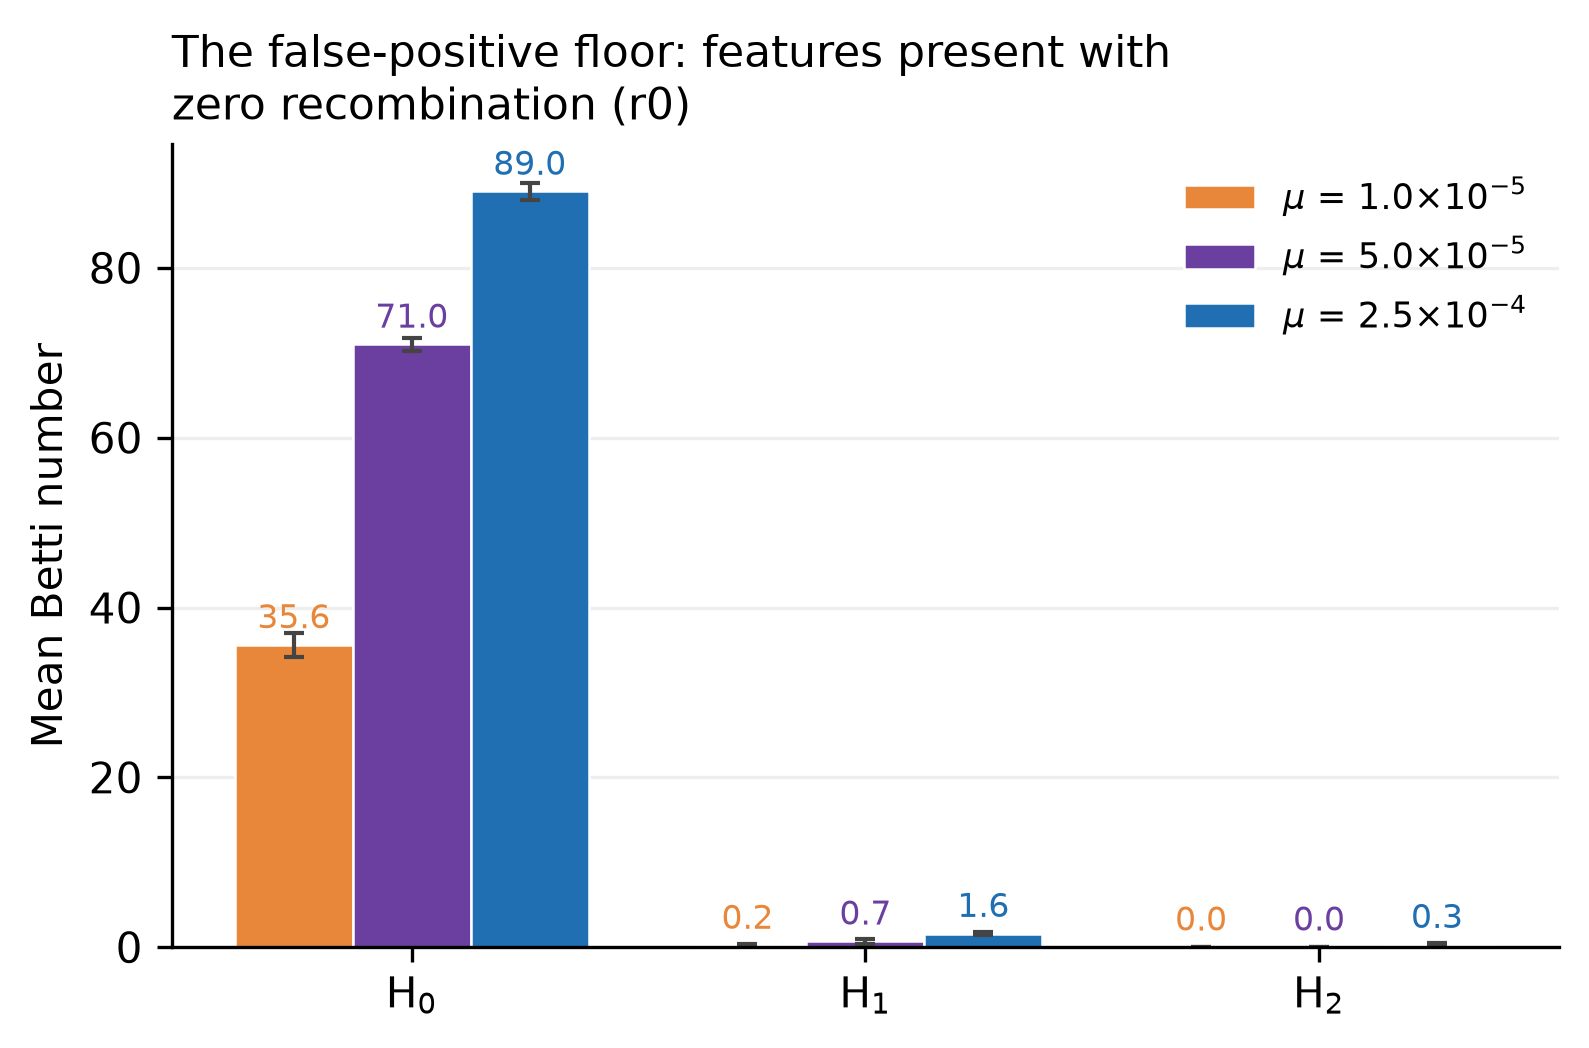
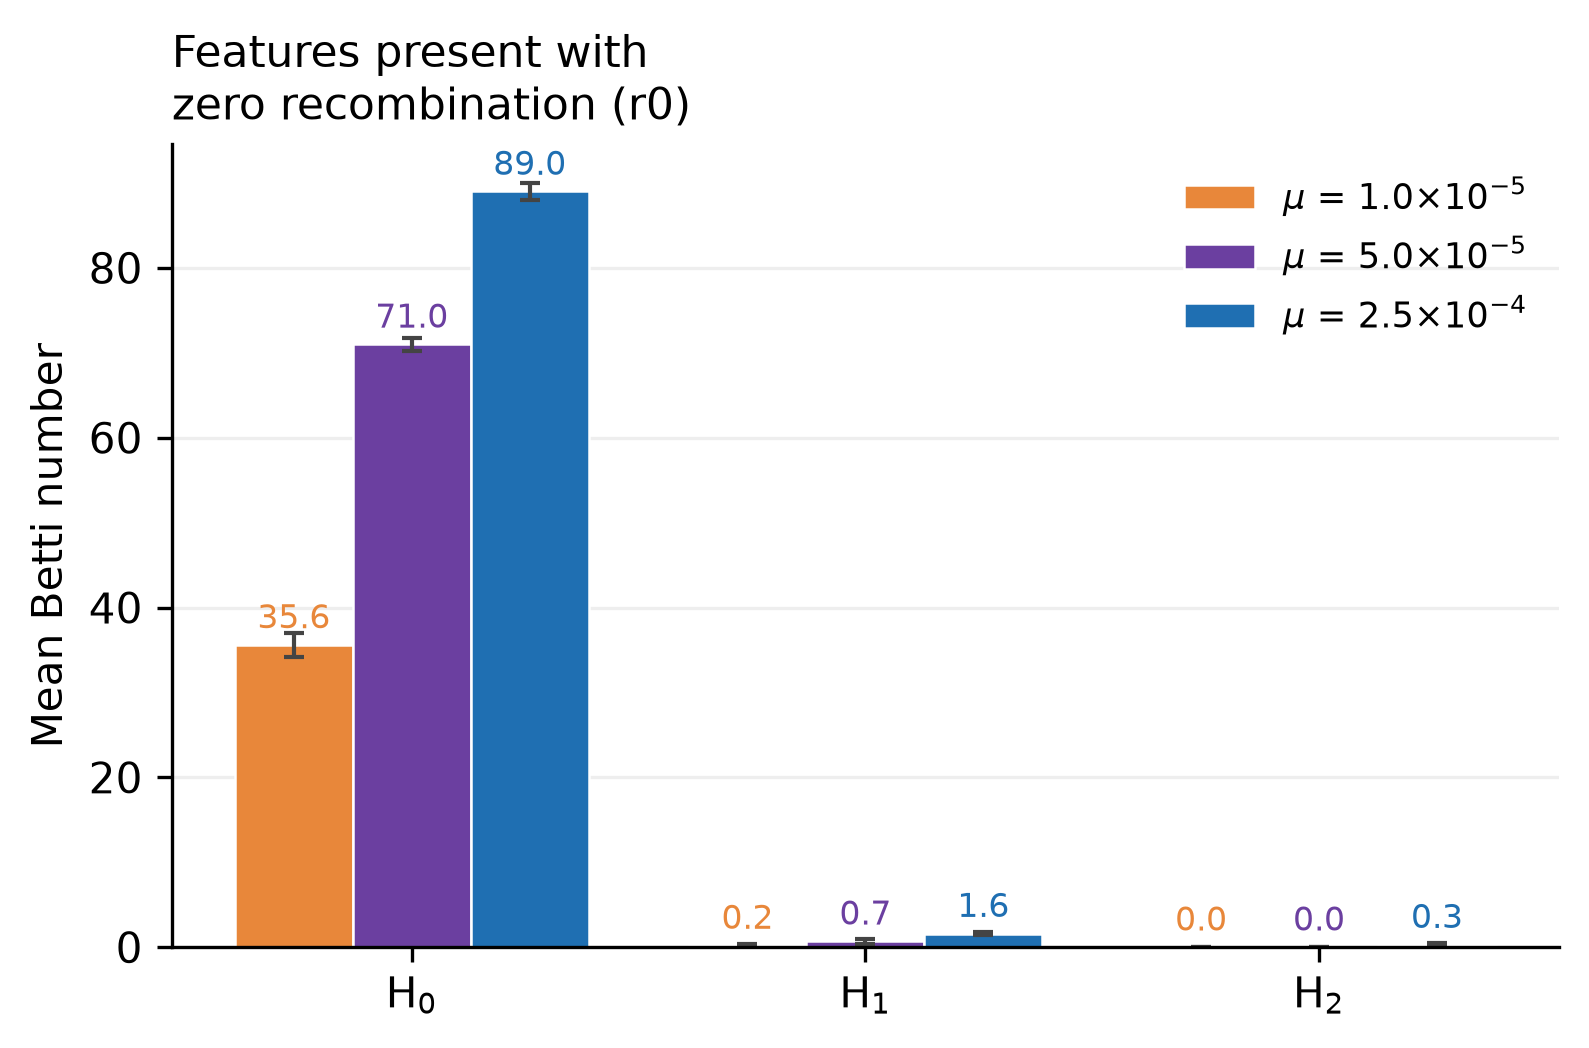
fixed some formats in the figures

Changed region(s): [[0.0925, 0.0305, 0.7401, 0.0916]]

diff --git a/scripts/12_figure_sanity_betti.py b/scripts/12_figure_sanity_betti.py
@@ -20,9 +20,9 @@ RHO_ORDER = ["r0", "r1", "r2", "r3", "r4"]
 RHO_EFF = {"r0": 0, "r1": 0.005, "r2": 0.015, "r3": 0.030, "r4": 0.060}
 
 DIM_TITLE = {
-    0: "H$_0$ — connected components",
-    1: "H$_1$ — loops",
-    2: "H$_2$ — voids",
+    0: "H$_0$: connected components",
+    1: "H$_1$: loops",
+    2: "H$_2$: voids",
 }
 
 
@@ -149,7 +149,7 @@ def build_floor(s):
     ax.set_xticklabels(["H$_0$", "H$_1$", "H$_2$"])
     ax.set_ylabel("Mean Betti number")
     ax.set_title(
-        "The false-positive floor: features present with\nzero recombination (r0)",
+        "Features present with\nzero recombination (r0)",
         loc="left",
         fontsize=10.5,
     )
